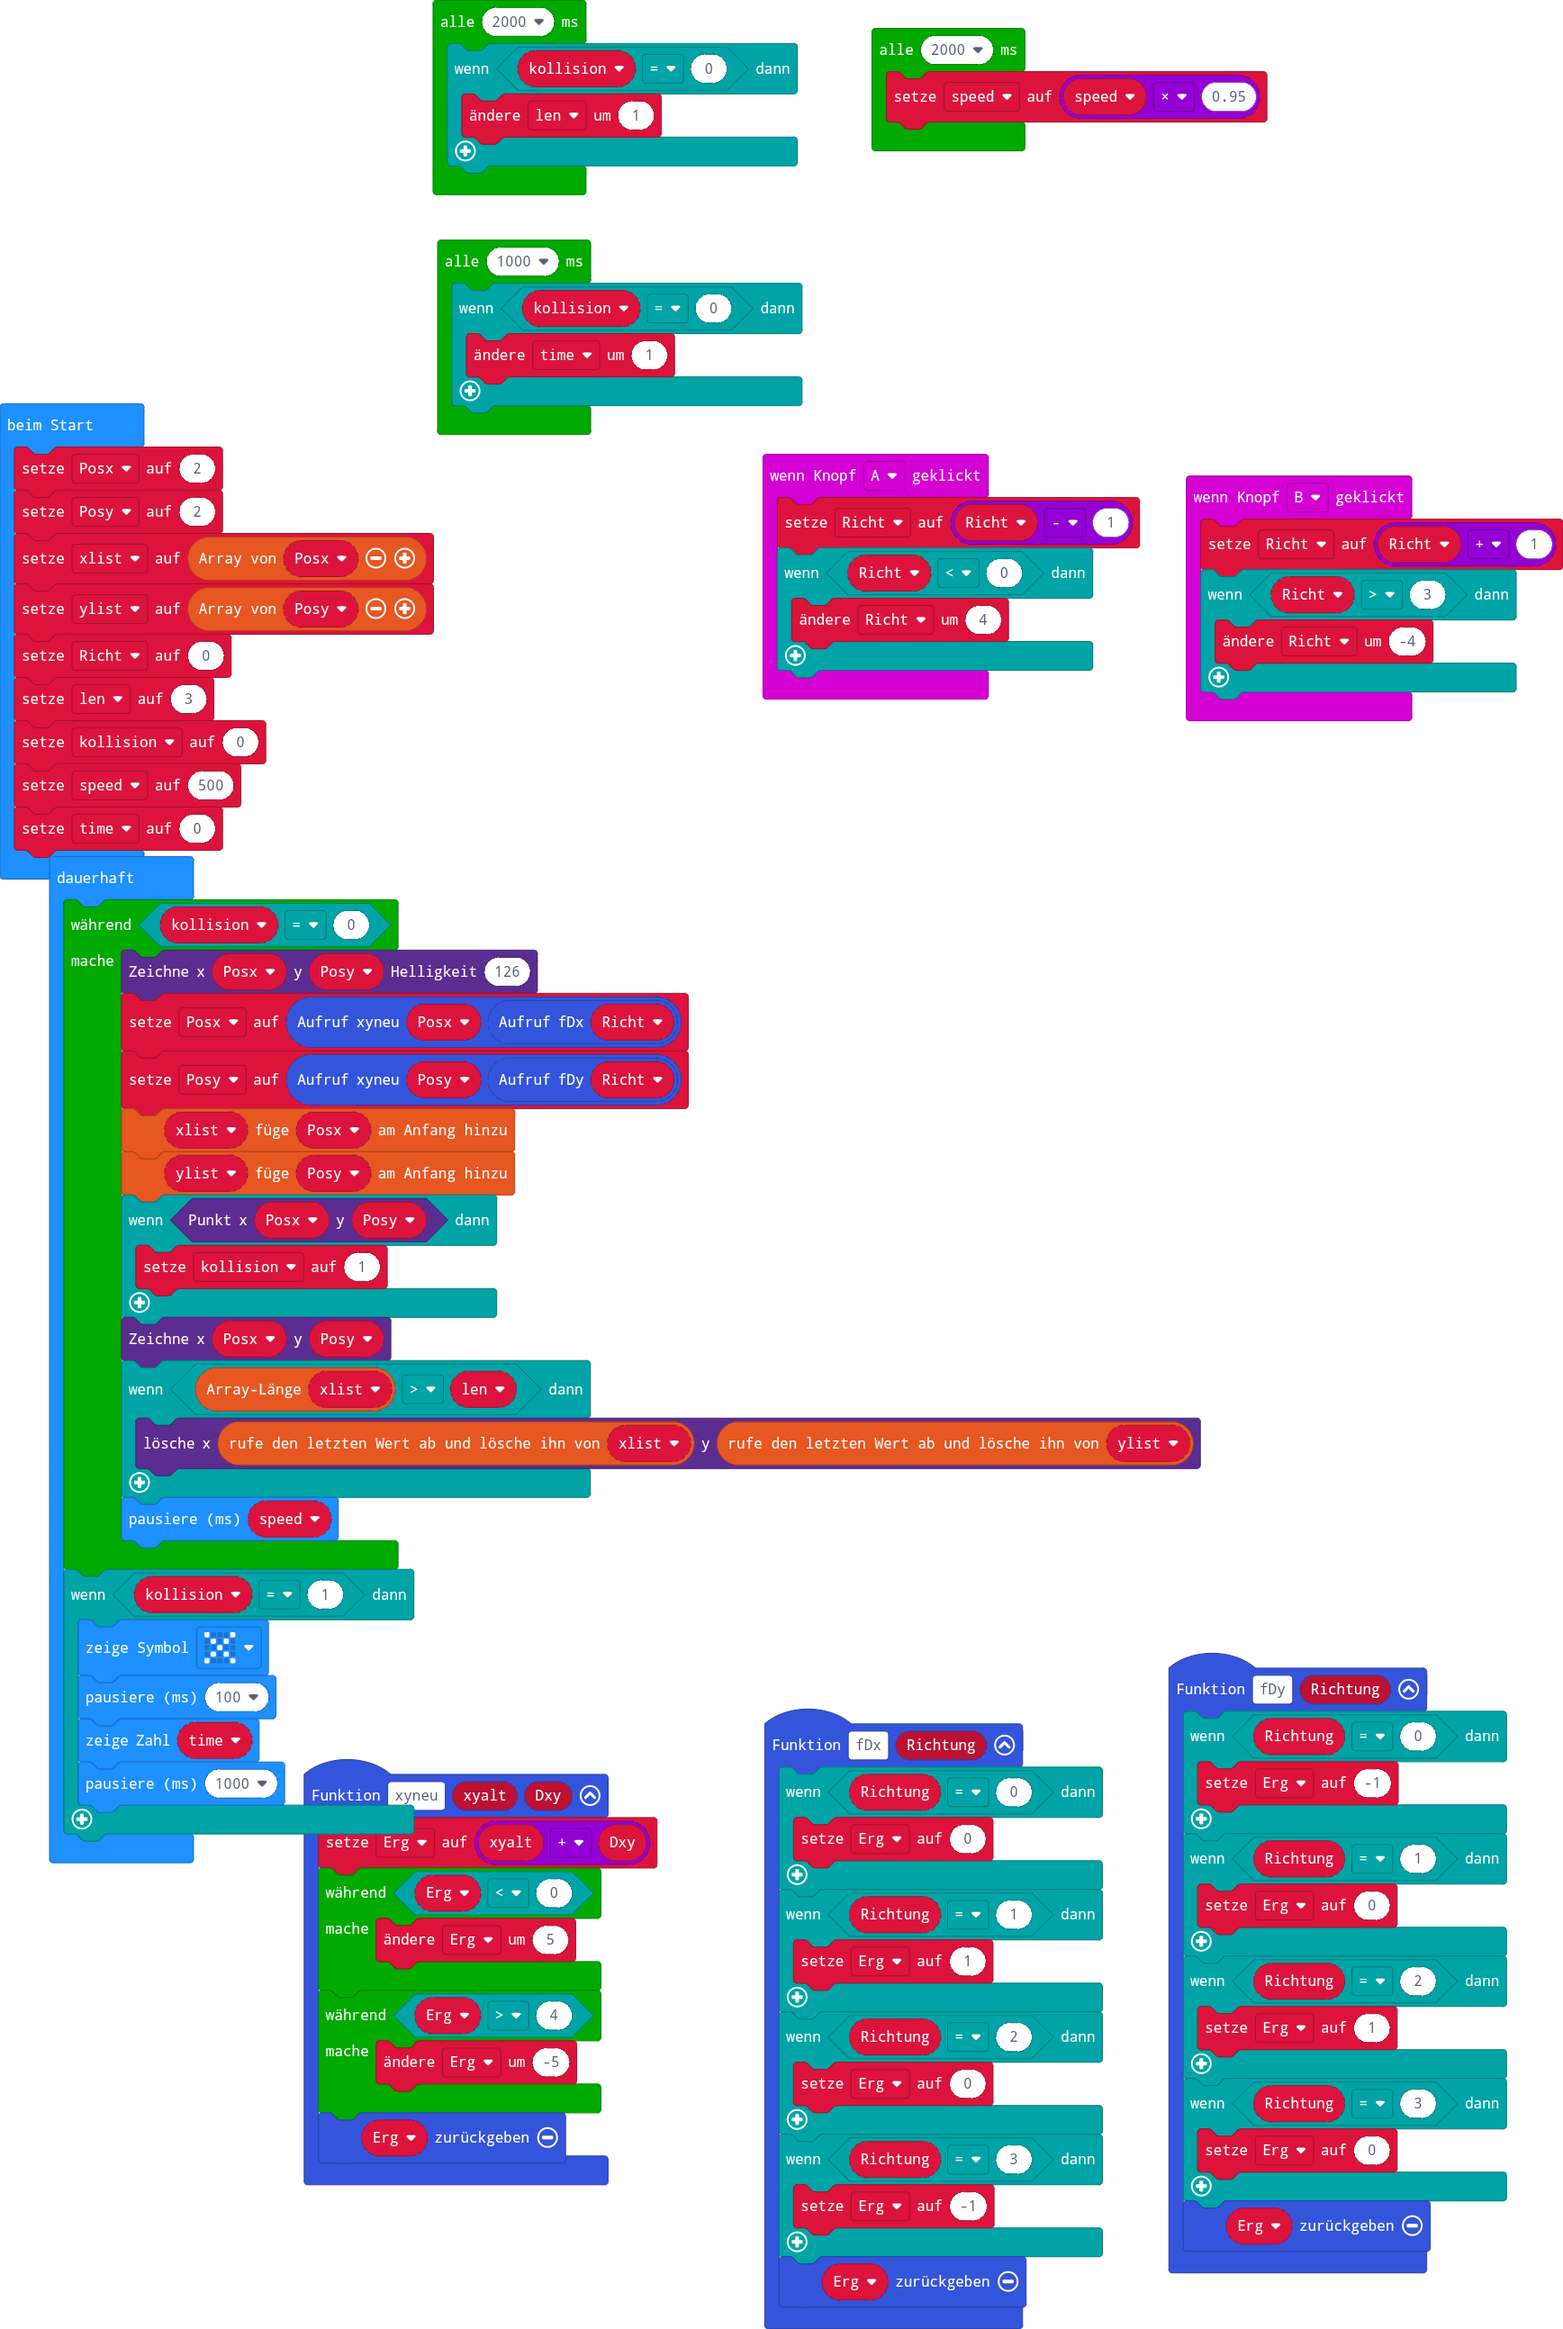
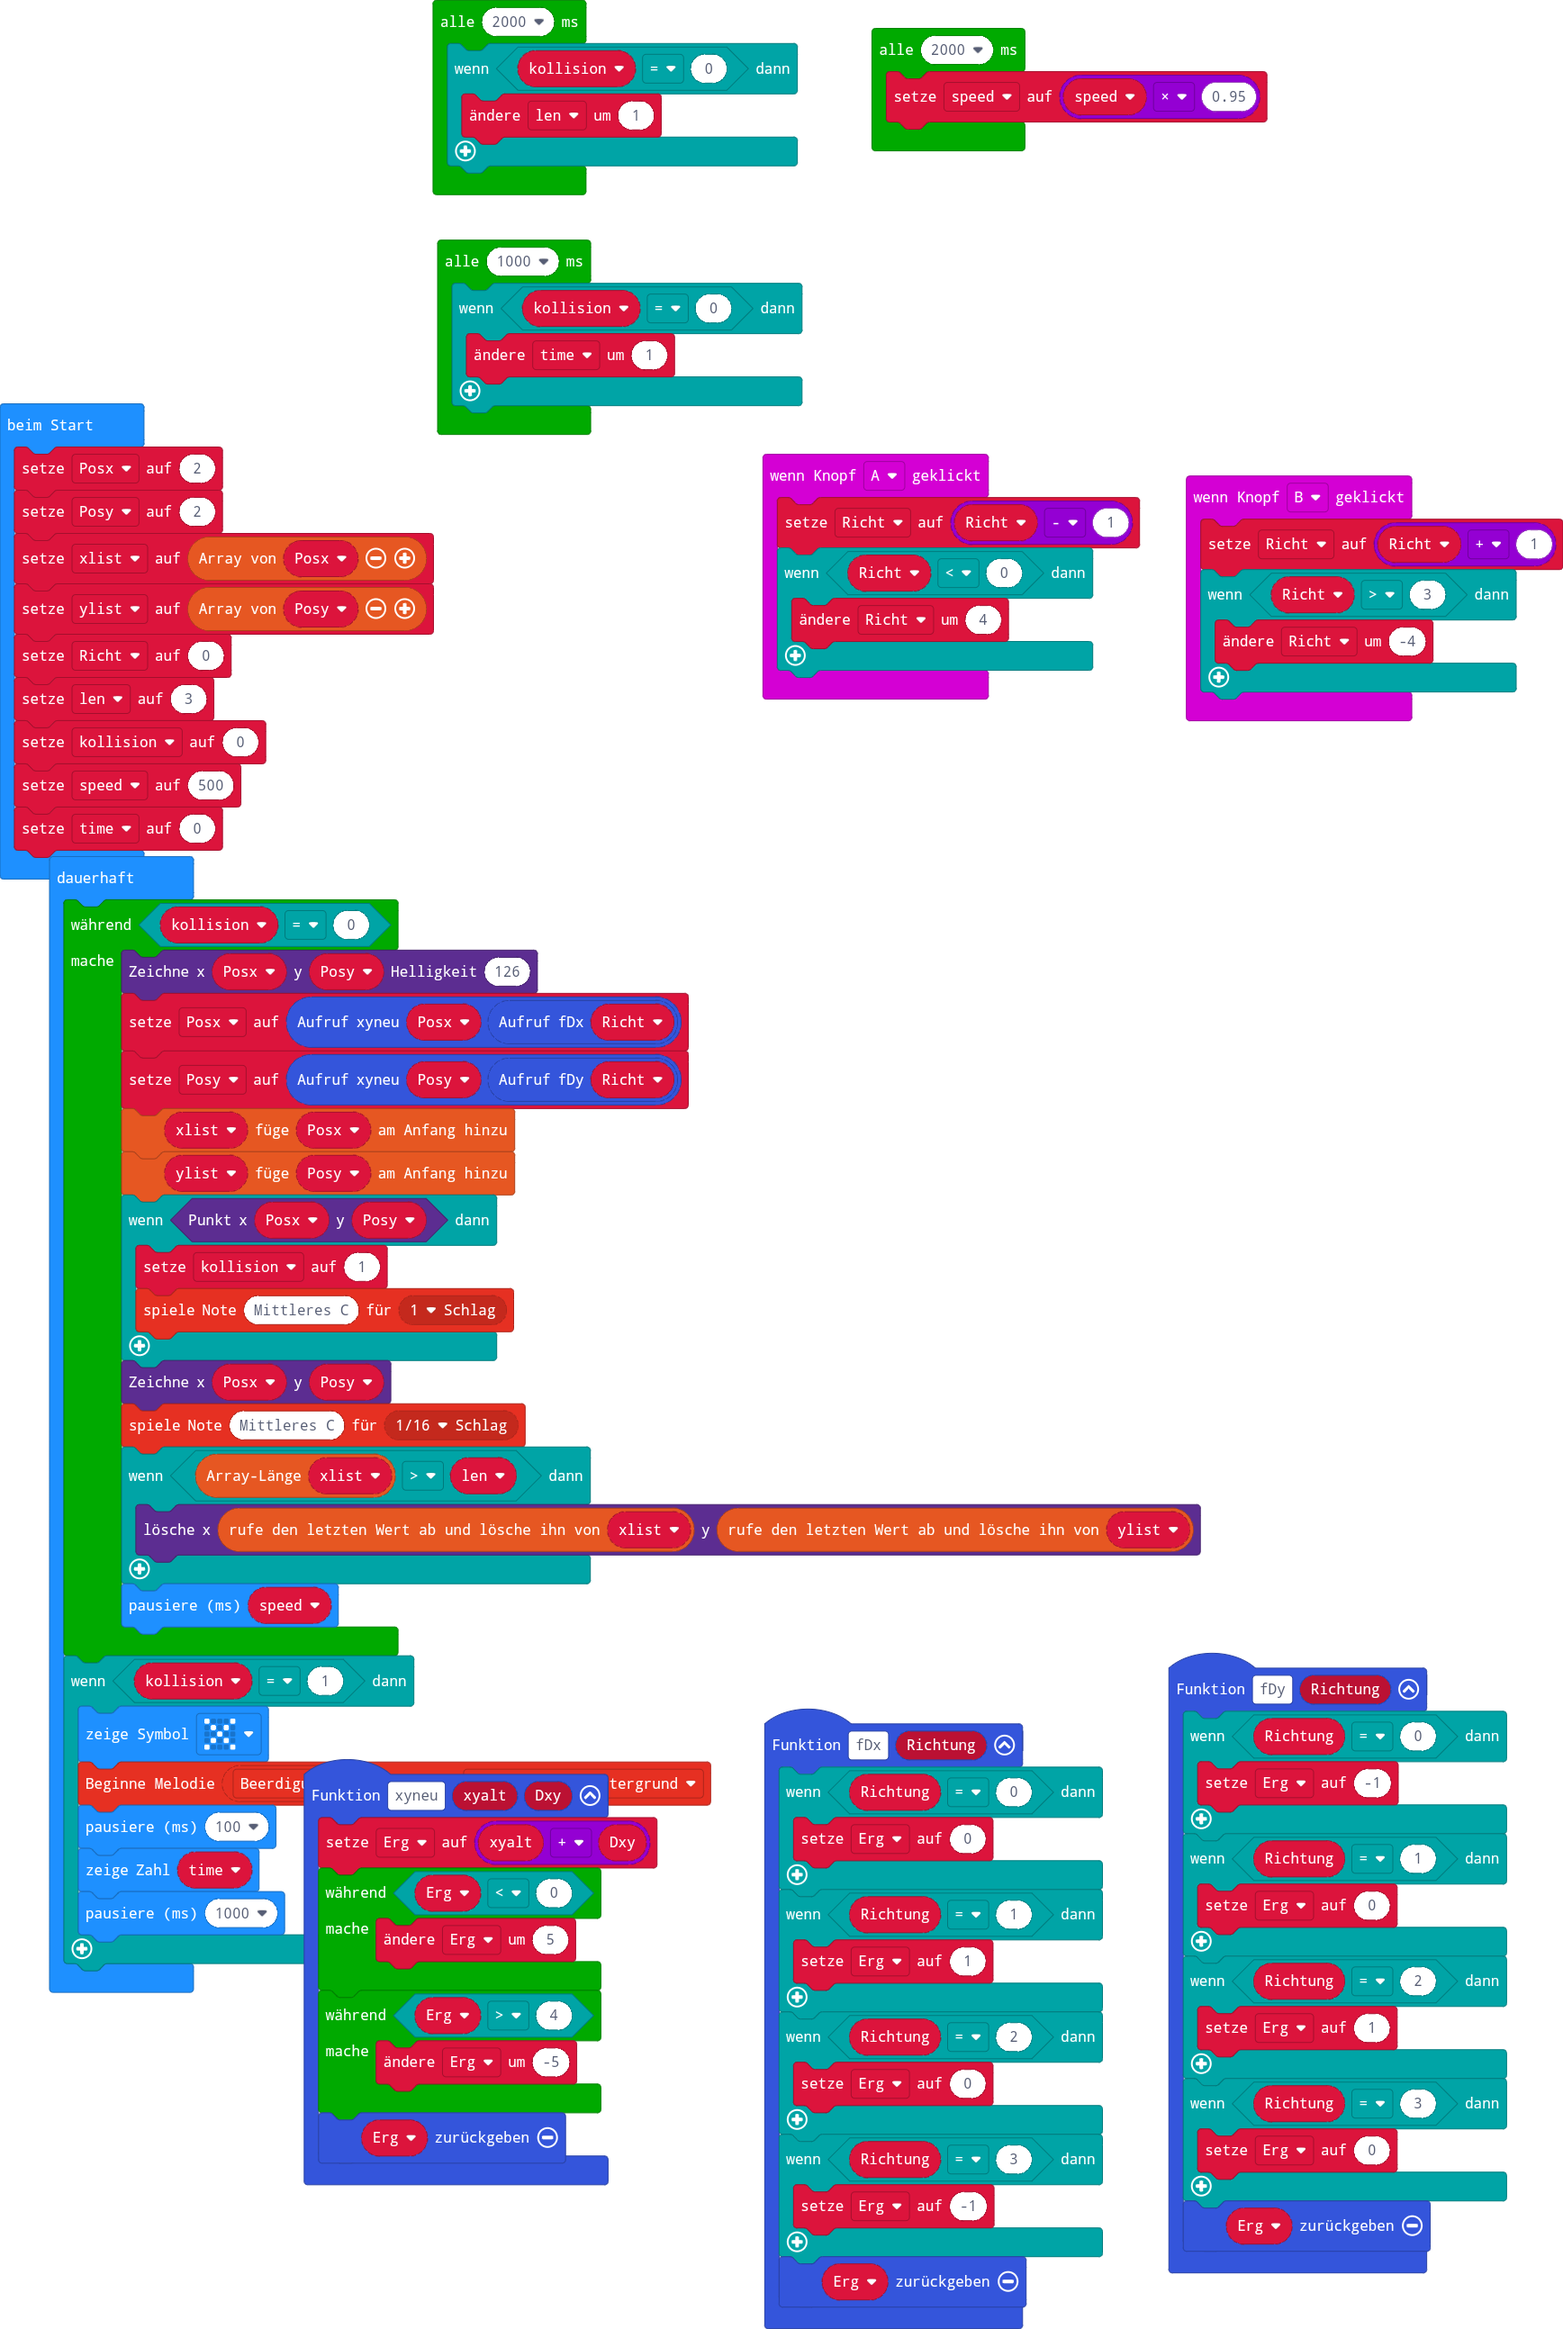
sound

Changed region(s): [[0.0311, 0.5257, 0.7776, 0.8659]]

diff --git a/main.ts b/main.ts
@@ -83,8 +83,10 @@ basic.forever(function () {
         ylist.unshift(Posy)
         if (led.point(Posx, Posy)) {
             kollision = 1
+            music.playTone(262, music.beat(BeatFraction.Whole))
         }
         led.plot(Posx, Posy)
+        music.playTone(262, music.beat(BeatFraction.Sixteenth))
         if (xlist.length > len) {
             led.unplot(xlist.pop(), ylist.pop())
         }
@@ -92,6 +94,7 @@ basic.forever(function () {
     }
     if (kollision == 1) {
         basic.showIcon(IconNames.No)
+        music.startMelody(music.builtInMelody(Melodies.Funeral), MelodyOptions.ForeverInBackground)
         basic.pause(100)
         basic.showNumber(time)
         basic.pause(1000)
